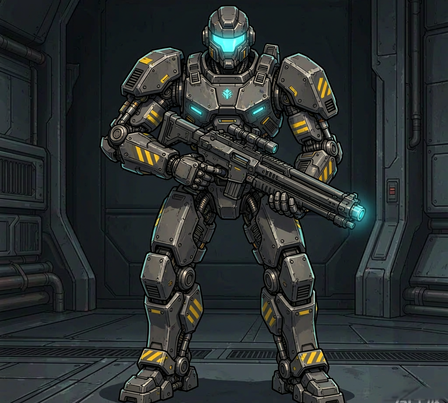
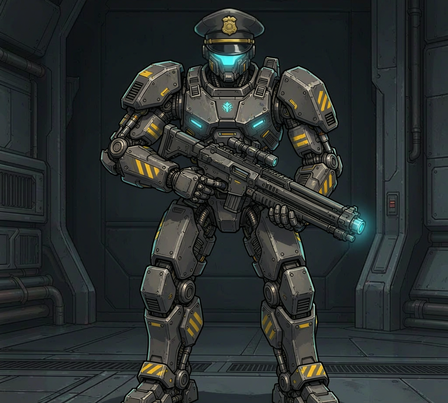
R519o 执法者加巡警大檐帽

diff --git a/art_src/2026-11-08_执法者卡图R519n/tools/process_9223.py b/art_src/2026-11-08_执法者卡图R519n/tools/process_9223.py
@@ -25,11 +25,11 @@ from PIL import Image, ImageDraw, ImageFilter
 
 HERE = Path(__file__).resolve().parent
 ROOT = HERE.parents[2]
-RAW = HERE.parent / "raw" / "Use_the_input_image_ONLY_AS_AN_2026-11-08T03-41-26.png"
+RAW = HERE.parent / "raw" / "EDIT_THIS_IMAGE_while_preservi_2026-11-08T03-56-59.png"
 PROC = HERE.parent / "processed"
 PICS = ROOT / "assets" / "pics"
 
-CROP = (0, 70, 1024, 991)    # 1024×921 ≈ 448×403 的宽高比
+CROP = (0, 40, 1024, 961)    # 1024×921 ≈ 448×403 的宽高比；顶部上移以容纳警帽（帽顶 y≈55）
 TARGET = (448, 403)
 WM_BOX = (872, 948, 1024, 1024)   # 水印固定框（全图坐标）
 

diff --git a/art_src/2026-11-08_执法者卡图R519n/prompts.md b/art_src/2026-11-08_执法者卡图R519n/prompts.md
@@ -47,15 +47,42 @@ other characters, NO text, NO letters, NO logo, NO watermark, NO card frame, NO 
 
 参数：`size=1024x1024, quality=high, background=opaque`。
 
+## 二版加帽（R519o，image1 编辑，input_fidelity=high）
+
+用户反馈：「执法者需要有警官的感觉，比如有个帽子之类」。
+
+```
+EDIT THIS IMAGE while preserving the existing upright humanoid police-enforcer ROBOT, its
+three-quarter pose, its long sci-fi pulse rifle, its dark gunmetal/charcoal armour, the yellow
+warning stripes, the glowing cyan visor, the hydraulic joints, and the dark sci-fi mechanical
+interior background. Keep the cel-shaded anime/comic outlines, flat colours, and hard-edged
+shadows unchanged.
+
+Add ONLY this one change to give the robot an unmistakable POLICE OFFICER look: place a police
+officer's peaked cap (巡警大檐帽) ON TOP of its head, sitting above the glowing cyan visor,
+partially wrapping the upper helmet. The cap must read clearly as a police hat, in the SAME dark
+gunmetal-and-charcoal sci-fi armour style: a wide glossy black visor brim sweeping forward over
+the forehead, a rounded dark crown, a thin gold band around the base of the crown, and a small
+glowing gold/brass police badge emblem on the front centre of the crown. The peaked cap is an
+armoured machine version of the classic police cap, NOT a soldier helmet, NOT a baseball cap,
+NOT a beret. The wide brim should overlap the upper edge of the cyan visor only slightly so the
+glowing eyes stay readable.
+
+Keep the cap proportional to the large mech head, with enough clearance below the top edge of
+the frame. Do not change anything else. No new characters, no text, no letters, no logo, no
+watermark, no card frame, no border.
+```
+
 ## 处理
 
-- 裁切 `(0, 70, 1024, 991)` = 1024×921 → `448×403`。
+- 二版帽顶约 y≈55，裁切上移：`(0, 40, 1024, 961)` = 1024×921 → `448×403`。
 - 水印固定框（R515b 口径）全图坐标 `(872, 948, 1024, 1024)`，上沿落在窗内 → 对窗内部分
-  `(872, 878, 1024, 921)` 做 `patch_wm()`（右侧背景地面，无主体，修补安全）。
+  `(872, 908, 1024, 921)` 做 `patch_wm()`（右侧背景地面，无主体，修补安全）。
 - 脚本：`tools/process_9223.py`（`--write` 落盘 `processed/9223.png` 与 `assets/pics/9223.png`）。
 
 ## 验收
 
 - 原图：直立持枪警员机器人、科幻感、画风、主体完整、背景铺满 → 通过。
-- 处理图：头/双臂/枪/双足完整，水印彻底清除、无涂抹痕 → 通过。
+- 二版加帽原图：警帽+金色警徽清晰、帽檐只轻遮面罩上沿、主体与姿势保持不变 → 通过。
+- 处理图：警帽/头/双臂/枪/双足完整，水印彻底清除、无涂抹痕 → 通过。
 - 图鉴 `--group enemy --card 9223`：卡图正常、无黄三角、名称属性效果文本正确 → 通过。

diff --git a/art_src/2026-11-08_执法者卡图R519n/README.md b/art_src/2026-11-08_执法者卡图R519n/README.md
@@ -5,11 +5,15 @@
 - 形象：直立持枪警员机器人，深灰炭黑装甲 + 黄色警示条纹 + 青色发光面罩/胸灯 + 液压护甲，
   科幻感、冷峻肃杀，符合「机械 + 执法」定位与金色稀有度。
 - 出图：image1 画风参照（input_fidelity=low），1024×1024，一次通过。
-- 处理：裁 `(0,70,1024,991)` → 448×403；水印右下角背景地面，`patch_wm()` 修补后无痕。
-- 验收：`_review/9223_gallery_1280.png` 图鉴卡面正常、无黄三角、属性与效果文本正确。
+- 二版（R519o）：用户反馈「执法者需要有警官的感觉，比如有个帽子」→ 编辑原图加警帽，
+  编辑图 `raw/EDIT_THIS_IMAGE_while_preservi_2026-11-08T03-56-59.png`（input_fidelity=high），
+  黑色巡警大檐帽 + 金色警徽 + 帽带，与科幻装甲融合；帽顶 y≈55，裁切上移到 `(0,40,1024,961)`。
+- 处理：裁 `(0,40,1024,961)` → 448×403；水印右下角背景地面，`patch_wm()` 修补后无痕。
+- 验收：`_review/9223_gallery_cap_1280.png` 图鉴卡面正常、无黄三角、属性与效果文本正确。
 
 文件：
-- `raw/Use_the_input_image_ONLY_AS_AN_2026-11-08T03-41-26.png` 原图
+- `raw/Use_the_input_image_ONLY_AS_AN_2026-11-08T03-41-26.png` 一版原图（无帽）
+- `raw/EDIT_THIS_IMAGE_while_preservi_2026-11-08T03-56-59.png` 二版原图（加帽，最终采用）
 - `processed/9223.png` 处理中间产物
 - `tools/process_9223.py` 处理脚本
 - `prompts.md` 出图提示词与参数

diff --git a/HANDOFF.md b/HANDOFF.md
@@ -1,4 +1,13 @@
-## 2026-11-08 R519n 执法者卡图（当前最新）
+## 2026-11-08 R519o 执法者加警帽（当前最新）
+
+- 用户反馈：「执法者需要有警官的感觉，比如有个帽子之类」。
+- 编辑二版：以 R519n 原图为底（input_fidelity=high），只加一顶黑色巡警大檐帽 + 金色警徽 + 帽带，
+  与科幻装甲同风格；帽檐轻遮发光面罩上沿、面罩仍可读，主体与持枪姿势不变。
+- `assets/pics/9223.png` 已替换为加帽版；帽顶 y≈55，裁切上移 `(0,40,1024,961)`，水印 `patch_wm()` 无痕。
+  二版原图 / 提示词 / 脚本更新在 `art_src/2026-11-08_执法者卡图R519n/`。
+- 图鉴赏收：`--group enemy --card 9223` 卡面正常、无黄色 pending 三角、属性与效果文本正确。
+
+## 2026-11-08 R519n 执法者卡图
 
 - 用户口径：「执法者：持枪的警员机器人，注意科幻感」。
 - 新增 `assets/pics/9223.png`（448×403）：直立持枪警员机器人，深灰炭黑装甲 + 黄色警示条纹 +
